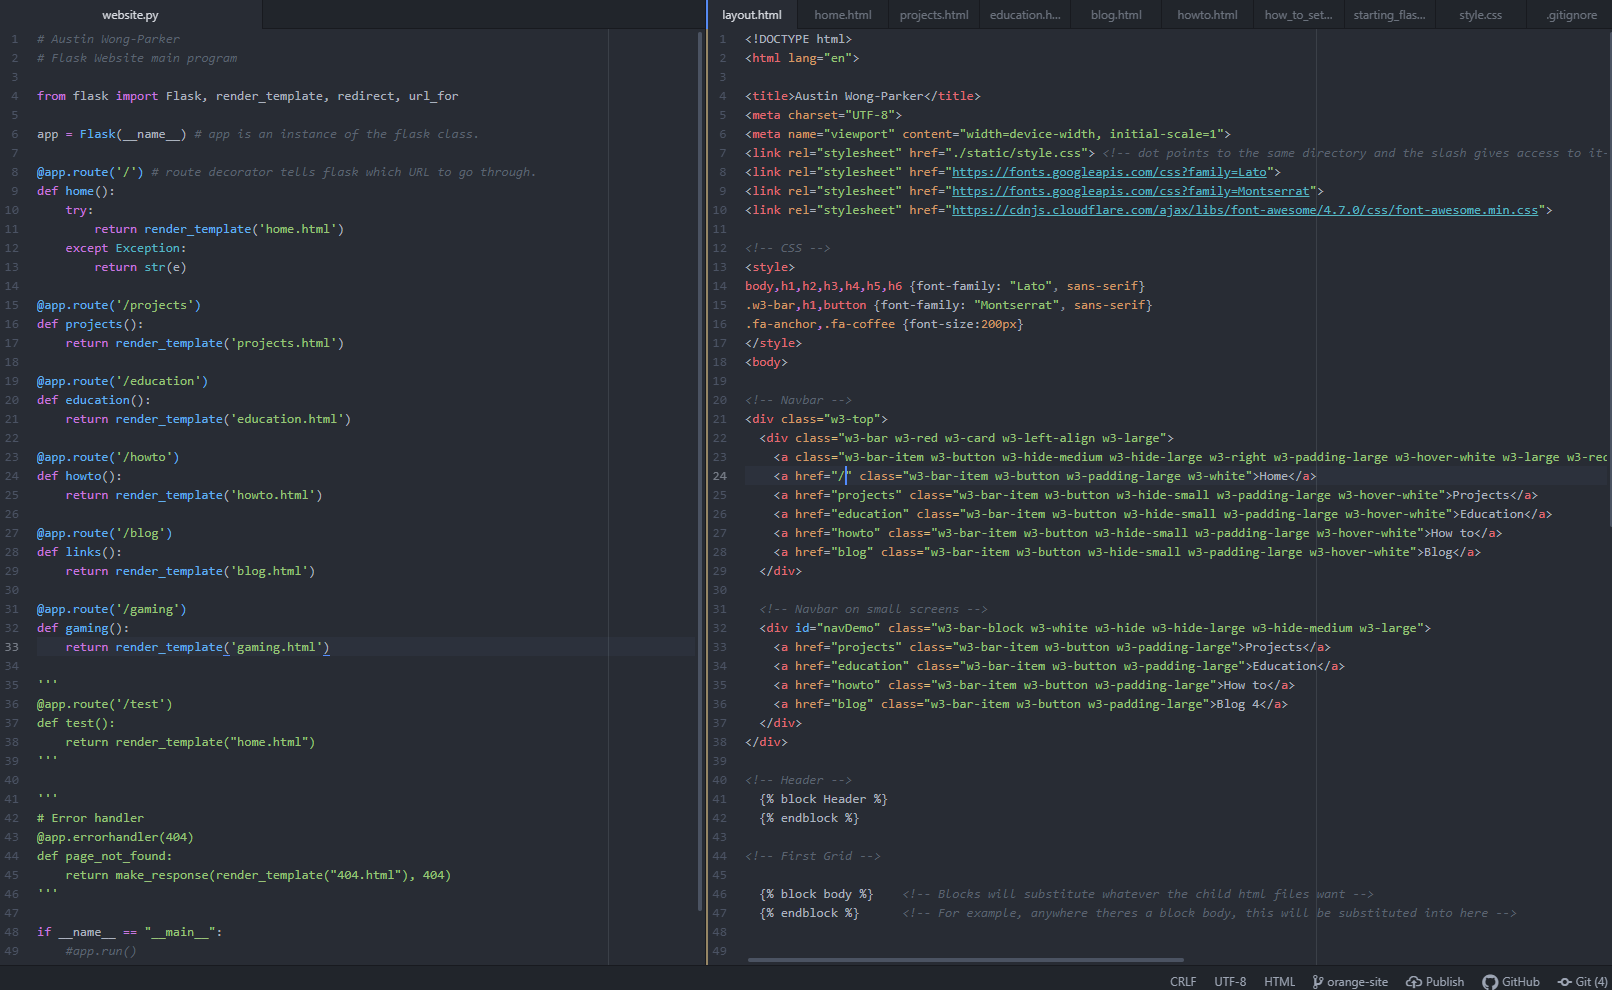
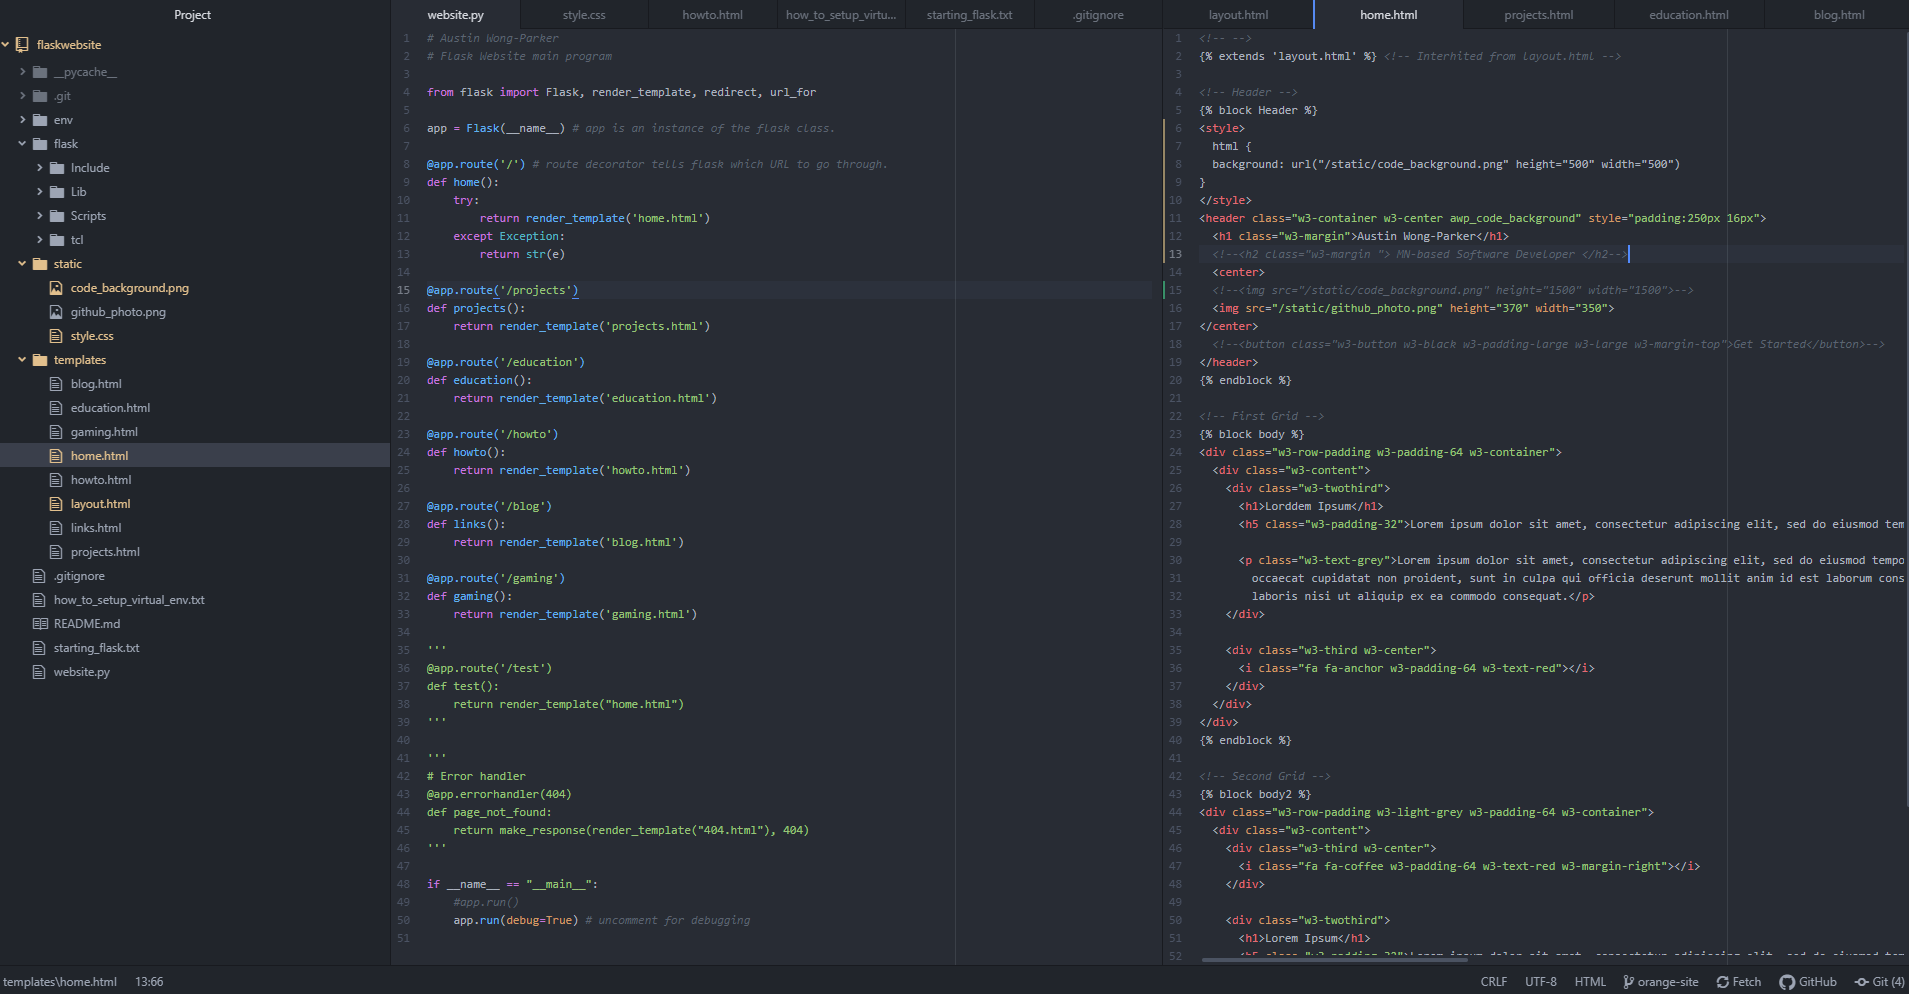
added image animation and scroll down fading

diff --git a/static/style.css b/static/style.css
@@ -113,12 +113,12 @@ hr{border:0;border-top:1px solid #eee;margin:20px 0}
 .w3-card,.w3-card-2{box-shadow:0 2px 5px 0 rgba(0,0,0,0.16),0 2px 10px 0 rgba(0,0,0,0.12)}
 .w3-card-4,.w3-hover-shadow:hover{box-shadow:0 4px 10px 0 rgba(0,0,0,0.2),0 4px 20px 0 rgba(0,0,0,0.19)}
 .w3-spin{animation:w3-spin 2s infinite linear}@keyframes w3-spin{0%{transform:rotate(0deg)}100%{transform:rotate(359deg)}}
-.w3-animate-fading{animation:fading 10s infinite}@keyframes fading{0%{opacity:0}50%{opacity:1}100%{opacity:0}}
+.w3-animate-fading{animation:fading 7s infinite}@keyframes fading{0%{opacity:0}50%{opacity:1}100%{opacity:0}}
 .w3-animate-opacity{animation:opac 0.8s}@keyframes opac{from{opacity:0} to{opacity:1}}
-.w3-animate-top{position:relative;animation:animatetop 0.4s}@keyframes animatetop{from{top:-300px;opacity:0} to{top:0;opacity:1}}
+.w3-animate-top{position:relative;animation:animatetop 2.2s}@keyframes animatetop{from{top:-300px;opacity:0} to{top:0;opacity:1}}
 .w3-animate-left{position:relative;animation:animateleft 0.4s}@keyframes animateleft{from{left:-300px;opacity:0} to{left:0;opacity:1}}
 .w3-animate-right{position:relative;animation:animateright 0.4s}@keyframes animateright{from{right:-300px;opacity:0} to{right:0;opacity:1}}
-.w3-animate-bottom{position:relative;animation:animatebottom 0.4s}@keyframes animatebottom{from{bottom:-300px;opacity:0} to{bottom:0;opacity:1}}
+.w3-animate-bottom{position:relative;animation:animatebottom 3.0s}@keyframes animatebottom{from{bottom:-300px;opacity:0} to{bottom:0;opacity:1}}
 .w3-animate-zoom {animation:animatezoom 0.6s}@keyframes animatezoom{from{transform:scale(0)} to{transform:scale(1)}}
 .w3-animate-input{transition:width 0.4s ease-in-out}.w3-animate-input:focus{width:100%!important}
 .w3-opacity,.w3-hover-opacity:hover{opacity:0.60}.w3-opacity-off,.w3-hover-opacity-off:hover{opacity:1}
@@ -145,6 +145,21 @@ hr{border:0;border-top:1px solid #eee;margin:20px 0}
 .w3-button:hover{color:#000!important;background-color:#ccc!important}
 .w3-transparent,.w3-hover-none:hover{background-color:transparent!important}
 .w3-hover-none:hover{box-shadow:none!important}
+
+/* Me adding stuff to css */
+
+.awp_code_background{
+  background-image: url("/static/code_background.png");
+  background-size: cover;
+  height: 970px;
+  position: relative;
+}
+
+@keyframes moving_scroll {
+  0% { left: 0;}
+    50%{ left : 100%;}
+    100%{ left: 0;}
+}
 
 /* Colors */
 .w3-amber,.w3-hover-amber:hover{color:#000!important;background-color:#ffc107!important}

diff --git a/templates/layout.html b/templates/layout.html
@@ -20,8 +20,8 @@ body,h1,h2,h3,h4,h5,h6 {font-family: "Lato", sans-serif}
 <!-- Navbar -->
 <div class="w3-top">
   <div class="w3-bar w3-dark-grey w3-card w3-left-align w3-large">
-    <a class="w3-bar-item w3-button w3-hide-medium w3-hide-large w3-right w3-padding-large w3-hover-white w3-large w3-red" href="javascript:void(0);" onclick="myFunction()" title="Toggle Navigation Menu"><i class="fa fa-bars"></i></a>
-    <a href="/" class="w3-bar-item w3-button w3-padding-large w3-white">Home</a>
+    <a class="w3-bar-item w3-button w3-hide-medium w3-hide-large w3-right w3-padding-large w3-hover-white w3-large " href="javascript:void(0);" onclick="myFunction()" title="Toggle Navigation Menu"><i class="fa fa-bars"></i></a>
+    <a href="/" class="w3-bar-item w3-button w3-padding-large w3-hover-white">Home</a>
     <a href="projects" class="w3-bar-item w3-button w3-hide-small w3-padding-large w3-hover-white">Projects</a>
     <a href="education" class="w3-bar-item w3-button w3-hide-small w3-padding-large w3-hover-white">Education</a>
     <a href="howto" class="w3-bar-item w3-button w3-hide-small w3-padding-large w3-hover-white">How to</a>

diff --git a/templates/home.html b/templates/home.html
@@ -3,10 +3,14 @@
 
 <!-- Header -->
 {% block Header %}
-<header class="w3-container w3-center" style="padding:250px 16px">
-  <h1 class="w3-margin w3-jumbo">Austin Wong-Parker</h1>
+<header class="w3-container w3-center awp_code_background" style="padding:250px 16px">
+  <!--<h1 style="color:white;font-family:Century Gothic;"> Austin Wong-Parker</h1>-->
+  <!--<h2 class="w3-margin "> MN-based Software Developer </h2-->
   <center>
-  <img src="/static/github_photo.png" height="370" width="350">
+  <!--<img src="/static/code_background.png" height="1500" width="1500">-->
+  <img class="w3-animate-top" src="/static/github_photo.png" height="370" width="350" >
+  <h1 class="w3-animate-top" style="color:white;font-family:Century Gothic;"> Austin Wong-Parker</h1>
+  <h2 class="w3-animate-fading" style="color:grey;font-family:Century Gothic;padding:230px;font-size: 12pt;"> Scroll down!</h2>
 </center>
   <!--<button class="w3-button w3-black w3-padding-large w3-large w3-margin-top">Get Started</button>-->
 </header>
